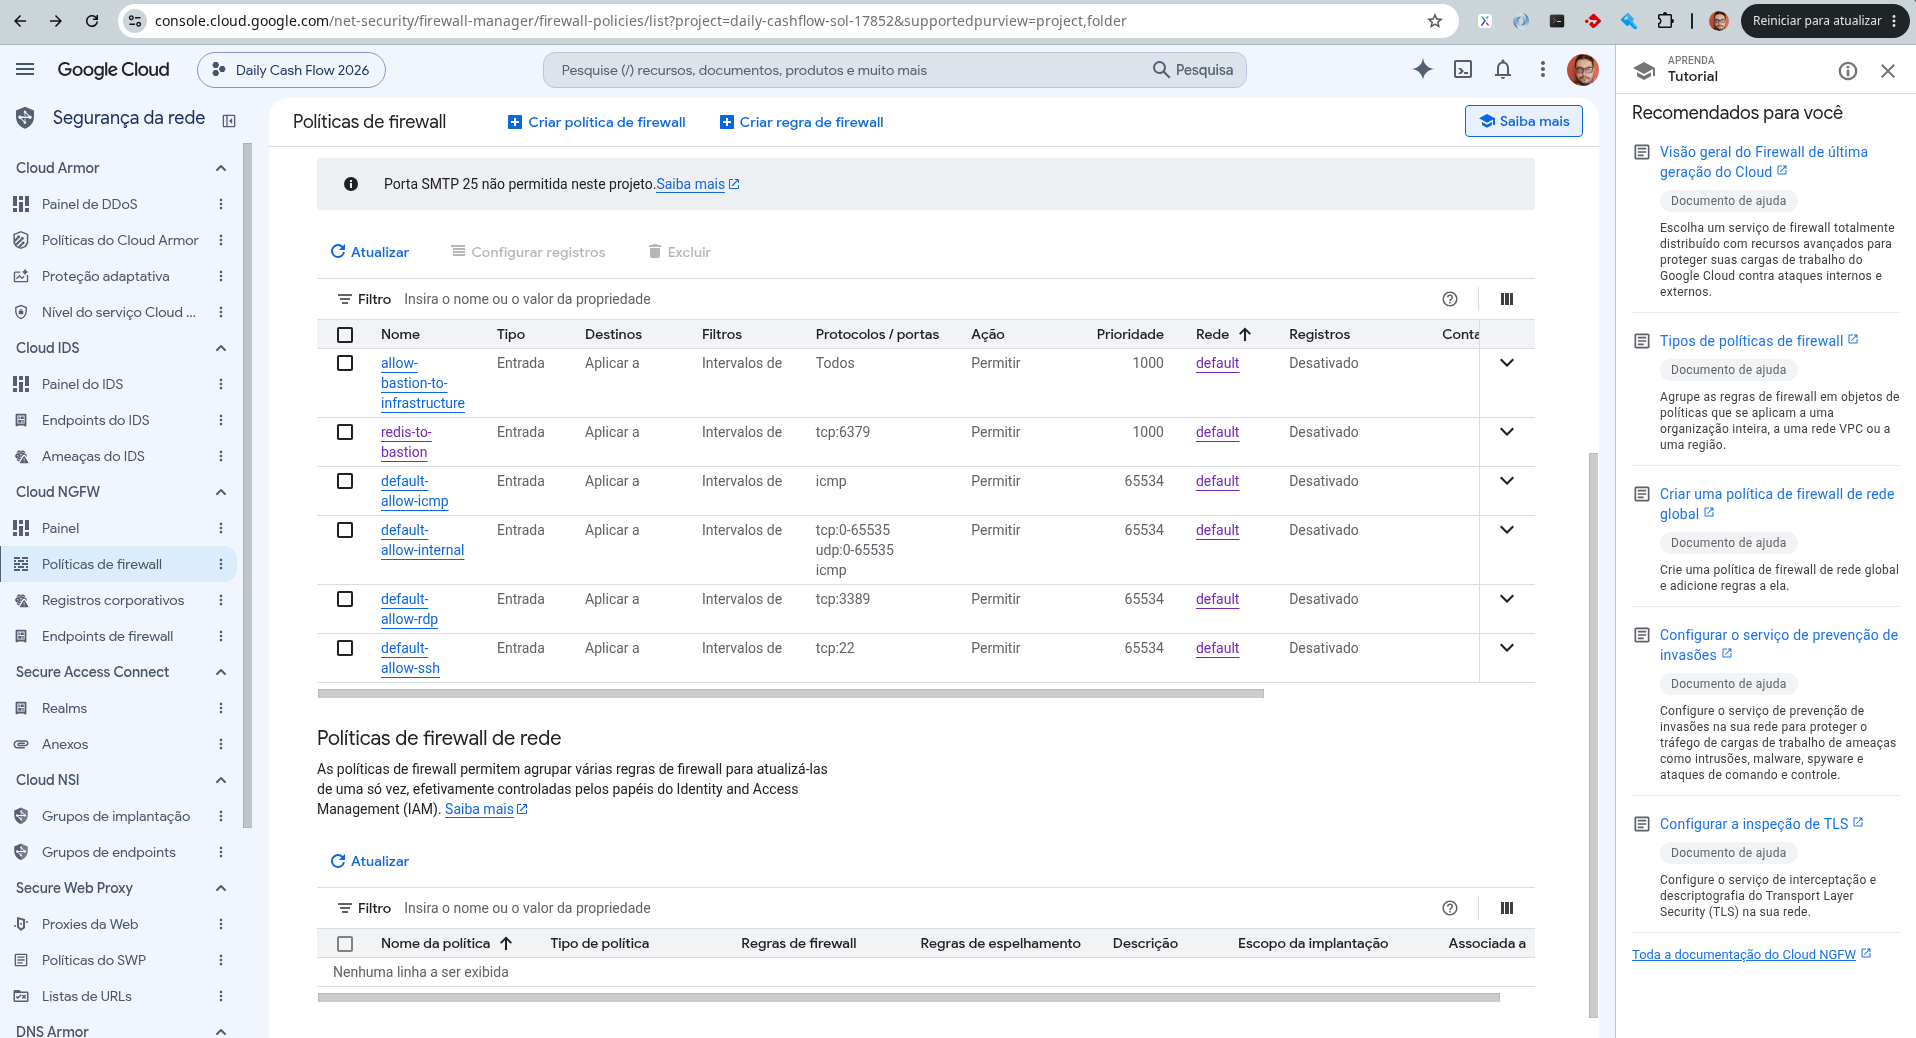
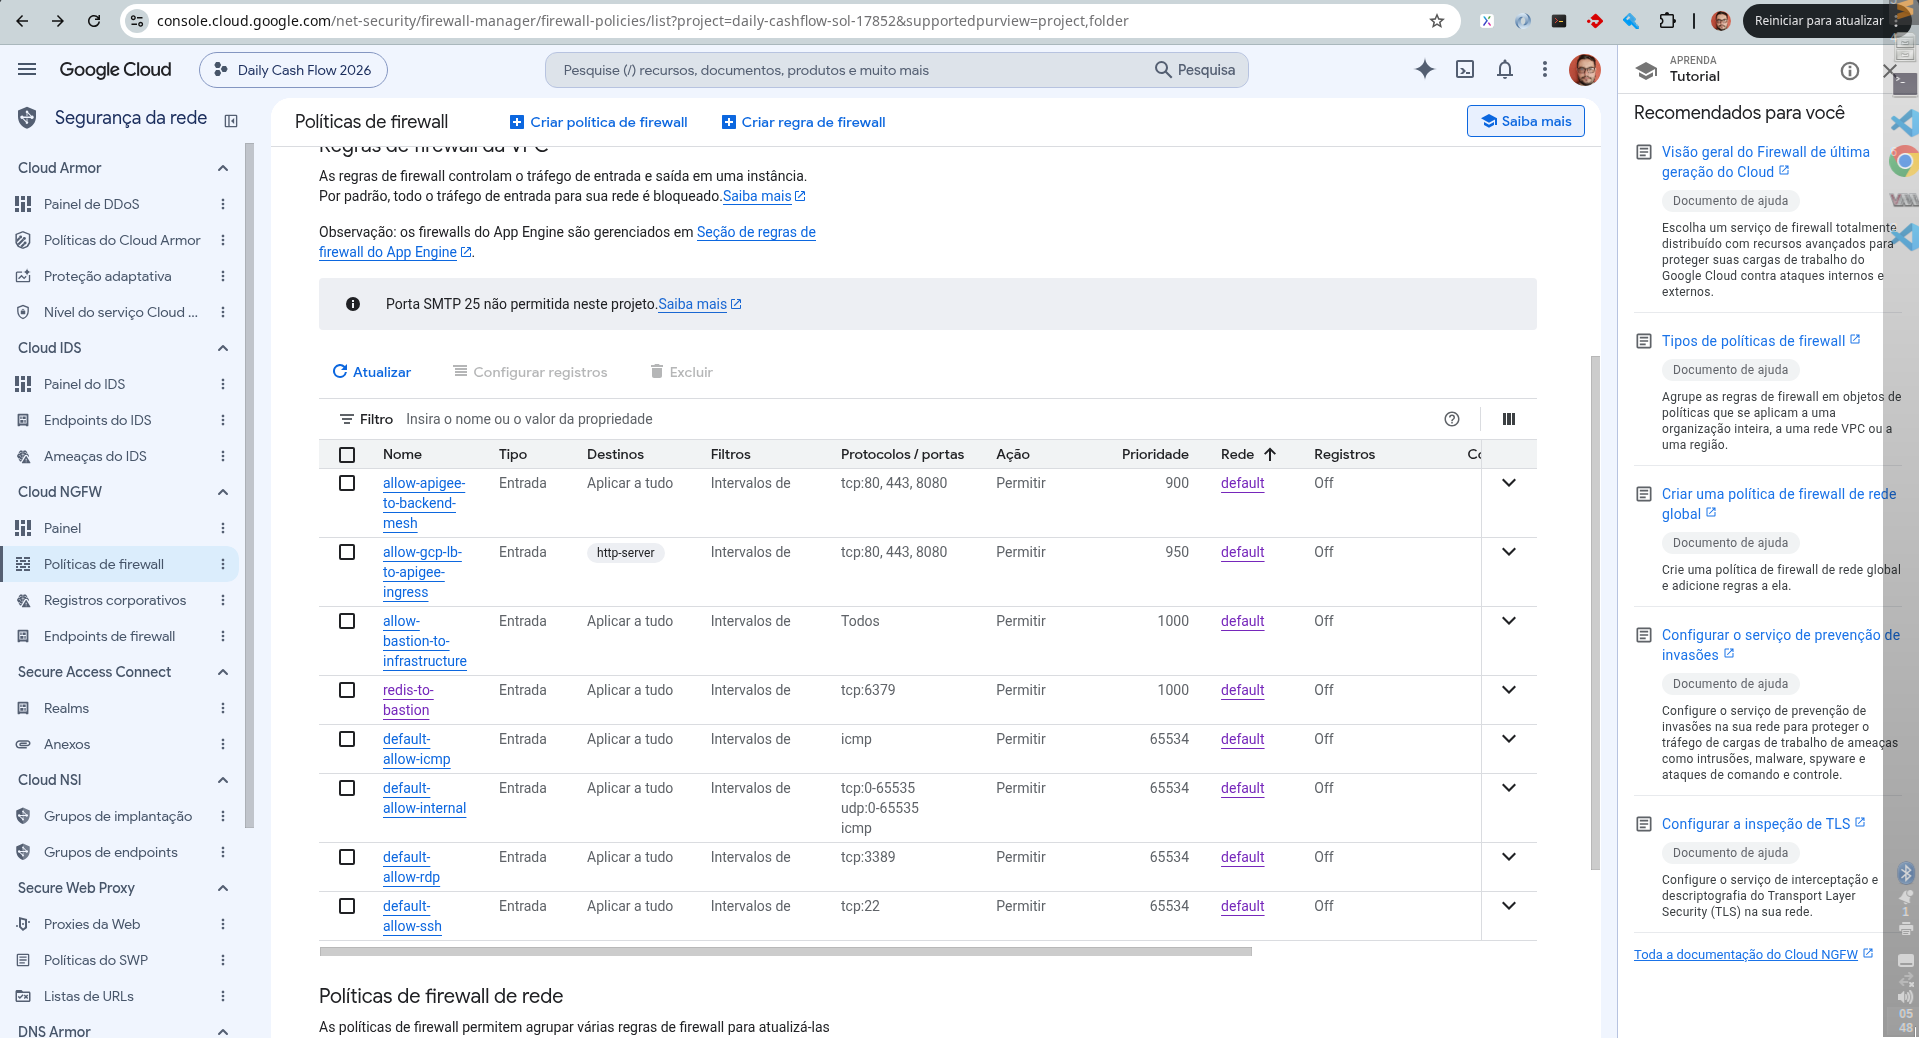
documentation evidency

diff --git a/documentation/evidencies/tests-evidencies.md b/documentation/evidencies/tests-evidencies.md
@@ -109,7 +109,7 @@ curl -k -X POST "https://136.81.203.14/v1/cashflow/entry?CreditDebitValue=3192,3
     -H "Host: daily-cashflow-sol-17852.dns-replaceme.example.com"     
     -H "Authorization: Bearer n8UgCl8trRqpYsDLPC7JNhAe3AoJ"      
     -H "Content-Type: application/json"     
-     -d '{"Amount": -192,34}'
+     -d '{"Amount": 3192,38}'
 ```
 **Received Response JSON:**
 ```json
